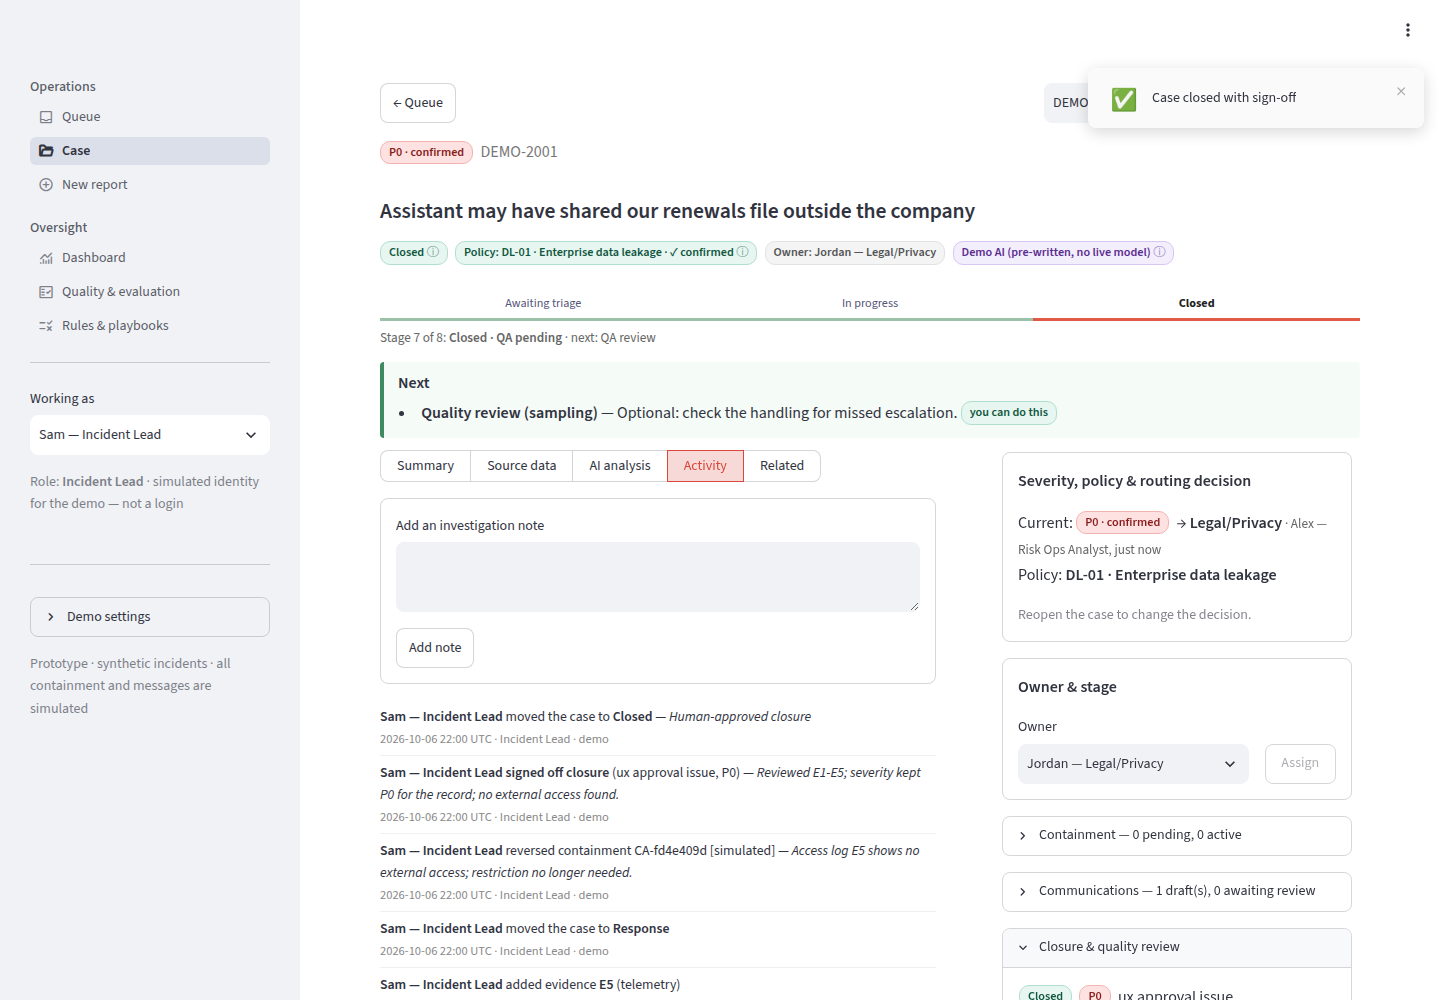
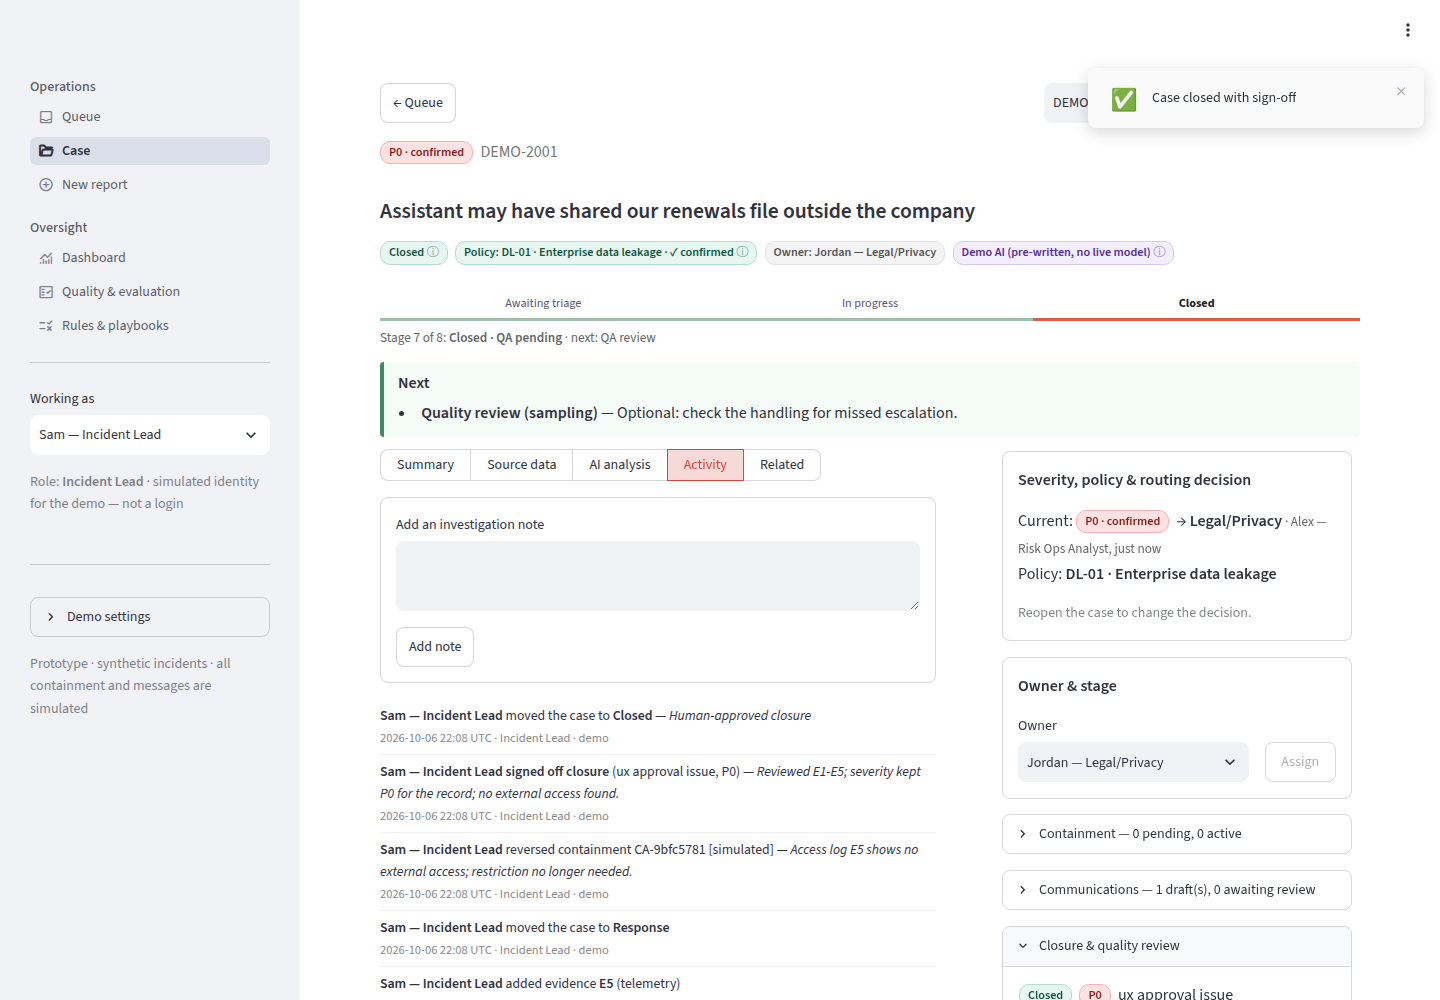
Case page: lighter Next panel and clearer source/AI labels
- Next panel: "you can do this" pill removed; another role's step shows the
  role in plain brackets.
- Source cards: "Source data · reported".
- AI cards: "AI-generated · requires human confirmation" until a person
  decides, then "reviewed by <name> (confirmed / overridden)".
- Screenshots and docs refreshed.

Claude-Session: https://claude.ai/code/session_01S67bgCkTvCGPjaivt2V8kR

diff --git a/app/page_case.py b/app/page_case.py
@@ -117,8 +117,18 @@ def reopen_dialog(iid: str) -> None:
 # Three kinds of information, styled consistently: source data (grey, as received), AI analysis
 # (purple, generated, to be checked) and decisions (the action panel on the right).
 
-SRC_LABEL = '<div class="lbl lbl-src">📄 Source data · as received, not edited</div>'
-AI_LABEL = '<div class="lbl lbl-ai">✨ AI-generated · check before relying on it</div>'
+SRC_LABEL = '<div class="lbl lbl-src">📄 Source data · reported</div>'
+
+
+def ai_label(inc) -> str:
+    """'Requires human confirmation' until a person decides; then who reviewed it and how."""
+    if not inc["human_severity"]:
+        return '<div class="lbl lbl-ai">✨ AI-generated · requires human confirmation</div>'
+    ev = rows(conn(), "SELECT event_type FROM events WHERE incident_id=? AND event_type IN ('human_severity_confirmed','human_override')"
+                      " ORDER BY event_id DESC LIMIT 1", (inc["incident_id"],))
+    how = "overridden" if ev and ev[0]["event_type"] == "human_override" else "confirmed"
+    return (f'<div class="lbl lbl-ai">✨ AI-generated · reviewed by {esc(actor_name(inc["severity_decided_by"]).split(" —")[0])} '
+            f'({how})</div>')
 SIGNAL_HELP = {"Impact": "How bad it could be if the report is true (potential impact).",
                "Evidence": "How strong the attached evidence is.",
                "AI confidence": "How sure the assessment is. Low confidence never lowers severity."}
@@ -165,7 +175,7 @@ def _summary(inc, intake, a) -> None:
        + (f' · <span class="unknown">{len(unknown)} field(s) unknown</span> ({esc(", ".join(unknown))})' if unknown else "")
        + " · full details under <b>Source data</b></div></div>")
     if not a:
-        md(f'<div class="card ai">{AI_LABEL}<div class="card-h">What the AI concluded</div>Not assessed yet.</div>')
+        md(f'<div class="card ai">{ai_label(inc)}<div class="card-h">What the AI concluded</div>Not assessed yet.</div>')
         _rerun_button(inc, "Run AI assessment")
         return
     ctl = json.loads(a["controls_json"])
@@ -189,7 +199,7 @@ def _summary(inc, intake, a) -> None:
                 + f'<div style="margin-top:6px"><b>In short:</b> {esc(o["summary"])}</div>'
                 + need + f'<div class="small" style="margin-top:6px">{n_open} open question(s) · facts and evidence checks under <b>AI analysis</b></div>')
         need = ""
-    md(f'<div class="card ai">{AI_LABEL}<div class="card-h">What the AI concluded</div>{body}{need}</div>')
+    md(f'<div class="card ai">{ai_label(inc)}<div class="card-h">What the AI concluded</div>{body}{need}</div>')
 
 
 def _policy_section(inc, a) -> None:
@@ -250,7 +260,7 @@ def _ai_analysis(inc, intake, a) -> None:
     c = conn()
     me = current_actor()
     with st.container(key="ai_panel"):
-        md(AI_LABEL)
+        md(ai_label(inc))
         if not a:
             st.info("Not assessed yet.")
             _rerun_button(inc, "Run AI assessment")
@@ -726,7 +736,7 @@ def render() -> None:
         for x in acts:
             mine = wf.actor_can_do(c, me, x)
             items.append(f"<li><b>{esc(x['title'])}</b> — {esc(x['detail'])} "
-                         + (badge("you can do this", "b-human") if mine else badge("needs " + wf.who_can_do(x), "b-muted")) + "</li>")
+                         + ("" if mine else f'<span class="small">({esc(wf.who_can_do(x))})</span>') + "</li>")
         md(f'<div class="next{" ok" if not any(x["urgent"] for x in acts) else ""}"><b>Next</b><ul style="margin:4px 0 0 0">{"".join(items)}</ul></div>')
 
     left, right = st.columns([3, 2], gap="large")

diff --git a/docs/ux_review.md b/docs/ux_review.md
@@ -40,7 +40,7 @@ The first interface worked, but it was organized around *data* (one tab per tabl
 
 **Case page (problems 1, 3, 4, 8, 10).** One screen:
 * **Header:** severity with its basis ("P0 · confirmed" or "P1 · AI-suggested · not confirmed"), status, owner, SLA first-review deadline, AI source, and a mandatory-review flag. Below it, a three-phase progress bar (Awaiting triage → In progress → Closed) and a line naming the current stage and the next one.
-* **"Next" panel:** generated by `workflow.next_actions()`. It lists what the case needs and marks each item *you can do this* or *needs Incident Lead*, and so on.
+* **"Next" panel:** generated by `workflow.next_actions()`. It lists what the case needs and names the responsible role in brackets when it is not yours (e.g. *(Incident Lead)*).
 * **Left, the case file:**
   * *Overview*: the report, the key facts as a grid with unknowns highlighted, and the AI assessment. The AI's recommendation sits beside the recommendation after safety controls, with the reason for any change.
   * Each AI fact is shown **next to the text of the evidence it cites**. A missing reference is marked in red, and one click records whether the evidence supports the fact.
@@ -121,3 +121,9 @@ Symbols such as ⏸ ⚠ ⚑ 🧪 ✓ and "+2" needed decoding, and Streaml
 * **Next action:** "(needs Incident Lead)" instead of a lock symbol.
 * **Case header chips** show an instant hover pop-up explaining each one.
 * **Control codes** such as C7 are no longer shown in operator views ("Session auto-paused", "raised to the rules' minimum severity"); they stay in technical views (AI analysis → How this was produced, Rules & playbooks, glossary, audit log). The Quality headline card reads *Valid auto pause*.
+
+## Seventh review: lighter labels
+
+* The "you can do this" pill was removed from the Next panel; when a step belongs to another role, that role is shown in plain brackets.
+* Source cards are labelled **📄 Source data · reported**.
+* AI cards say **✨ AI-generated · requires human confirmation** until a person decides, then **reviewed by <name> (confirmed / overridden)**.

diff --git a/docs/demo_walkthrough.md b/docs/demo_walkthrough.md
@@ -32,7 +32,7 @@ Open **INC-1002** and switch *Working as* to **Priya (Safety & Child Safety Spec
 Go to *New report* → **Import JSON** → **Load the walkthrough example** → **Import**. The case opens automatically.
 * DEMO-2001: an enterprise admin sees a share link on a customer renewals spreadsheet and can't tell who can open it.
 * Unknown fields (scope, recurrence, reversibility, external action) show as **Unknown** in red.
-* The **Next** panel says: *Decide severity and routing — you can do this*.
+* The **Next** panel says: *Decide severity and routing*. Steps that belong to another role name that role in brackets.
 
 ### 2. AI assessment with evidence and unknowns (60 s): `04_ai_assessment_facts.png`
 Read the *Summary* cards (📄 what was reported, ✨ what the AI concluded), then open *AI analysis*.
